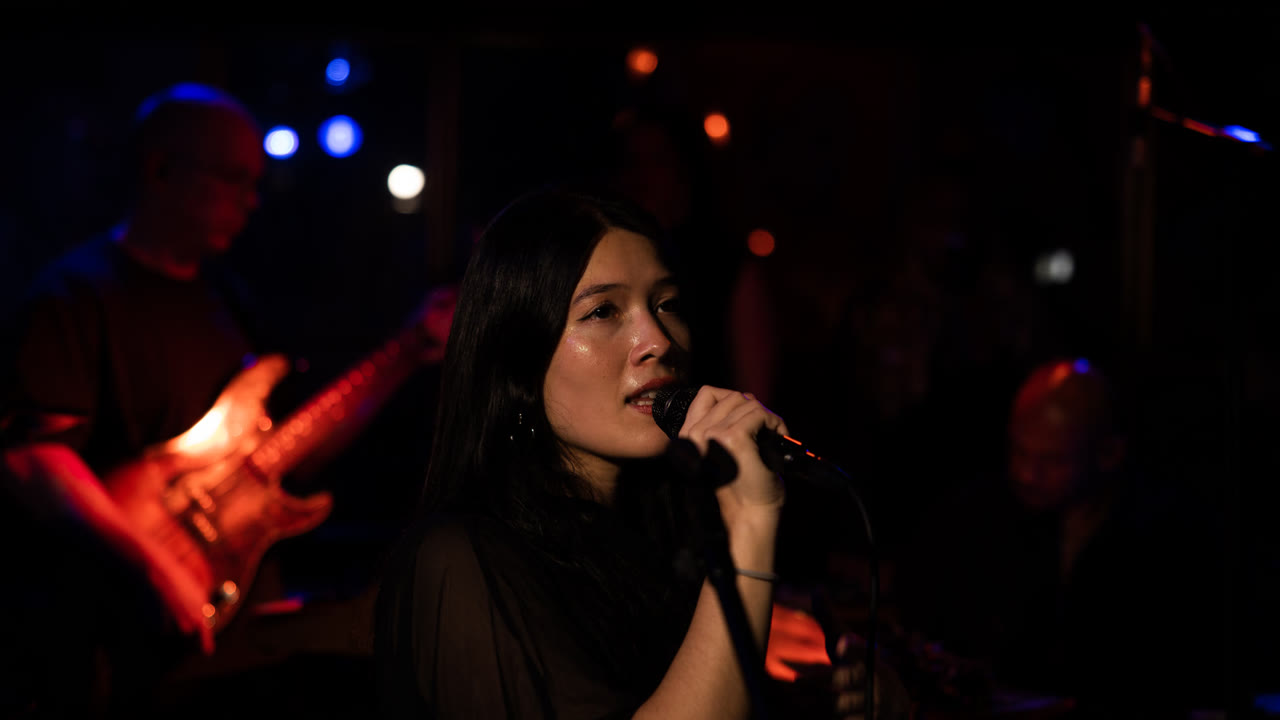
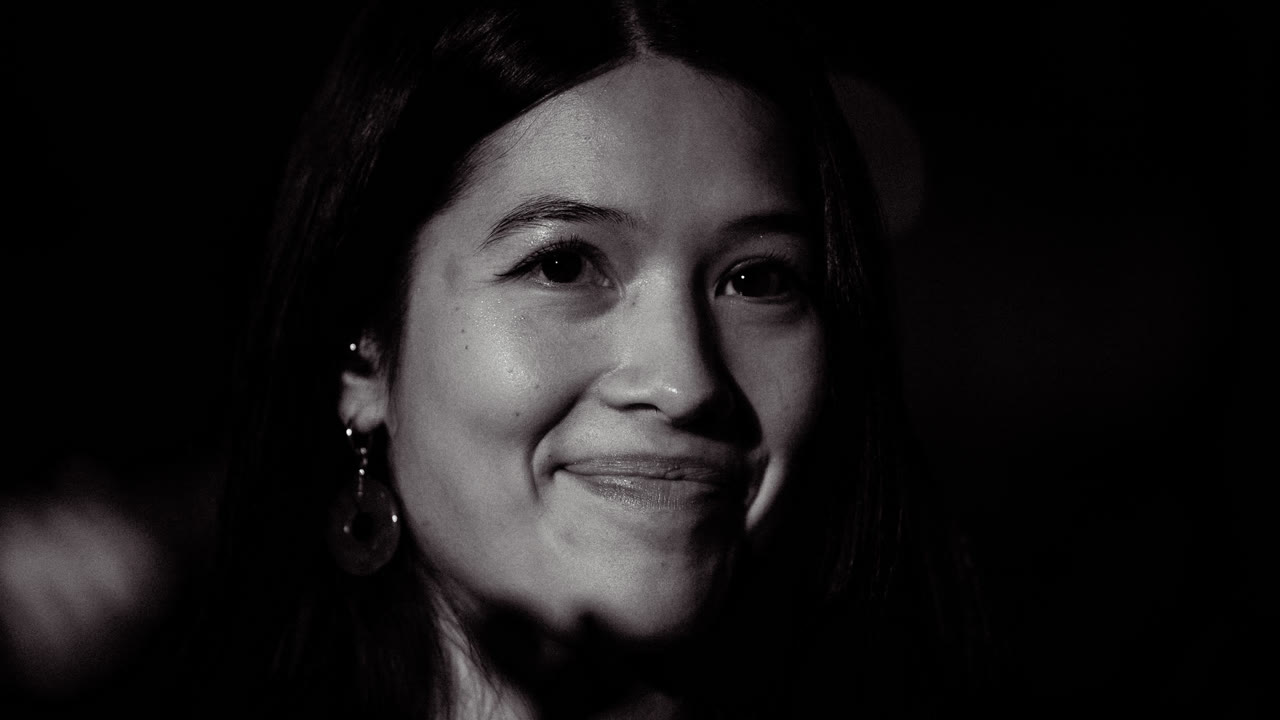
Closer singer shot for MUANH thumb; fill Matchday thumb
- MUANH thumbnail: tighter B&W close-up of the vocalist
- Matchday Designs thumbnail: 16:9 crop of the MATCH DAY design
  (object-cover, removed contain/bg) so it fills the frame

diff --git a/src/data/projects.ts b/src/data/projects.ts
@@ -314,8 +314,6 @@ export const PROJECTS: Project[] = [
       '/gallery/holsatia-matchday/03.jpg',
     ],
     thumbnail: '/thumbs/holsatia-matchday.jpg',
-    thumbnailContain: true,
-    thumbnailBg: '#282828',
   },
   {
     slug: 'muanh-counterglow-konzert',
